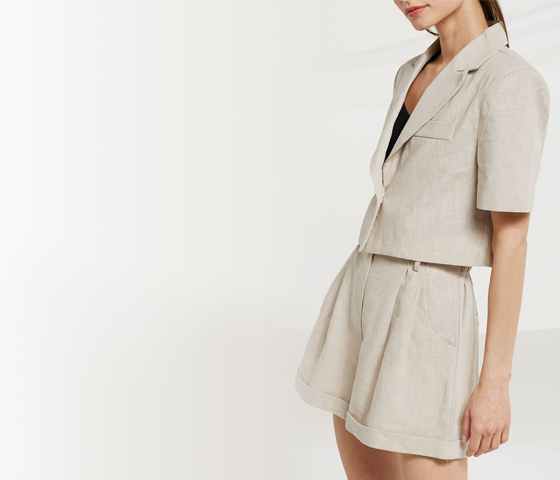
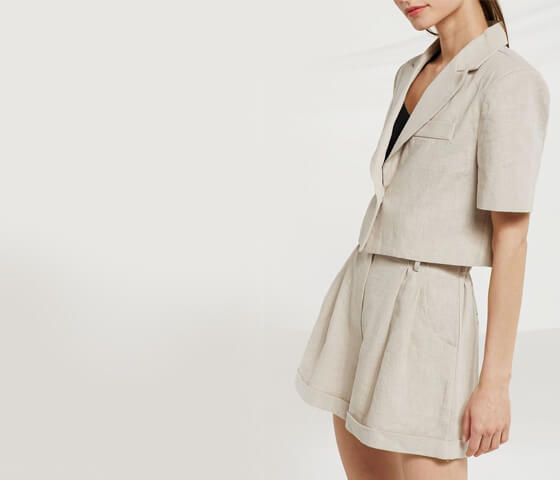
Home page change: seo, accessibility, promo

Changed region(s): [[0.0, 0.4688, 0.1518, 1.0]]

diff --git a/app/blocks/header-search/header-search.html b/app/blocks/header-search/header-search.html
@@ -2,7 +2,8 @@
 	<div class="header-search__panel js-header-search-panel js-header-search-prevent-hide">
 		<form class="header-search__form" action="#" method="post" onsubmit="alert('Форма находится в тестовом режиме. Чтобы закрыть окно, нажмите ОК.'); return false;">
 			<div class="header-search__field">
-				<input type="text" placeholder="Введите поисковый запрос" class="header-search__input js-header-search-input" data-swc-prevent-remove />
+				<label for="search" class="header-search__label">Найти</label>
+				<input id="search" type="text" placeholder="Введите поисковый запрос" class="header-search__input js-header-search-input" data-swc-prevent-remove />
 				<a href="#" class="header-search__close js-header-search-close">
 					<div class="header-search__close-icon">
 						@@include("../../svg/icon-search.svg")

diff --git a/app/blocks/header-share/header-share.html b/app/blocks/header-share/header-share.html
@@ -1,10 +1,10 @@
 <div class="header-share">
 	<div class="header-share__list">
-		<a href="https://www.instagram.com/" target="_blank" class="header-share__item instagram" title="Мы в Instagram">
+		<a href="https://www.instagram.com/" target="_blank" rel="noopener" class="header-share__item instagram" title="Мы в Instagram">
 			@@include("../../svg/icon-soc-instagram.svg")
 			<span>Instagram</span>
 		</a>
-		<a href="https://www.pinterest.com/" target="_blank" class="header-share__item pinterest" title="Мы в Pinterest">
+		<a href="https://www.pinterest.com/" target="_blank" rel="noopener" class="header-share__item pinterest" title="Мы в Pinterest">
 			@@include("../../svg/icon-soc-pinterest.svg")
 			<span>Pinterest</span>
 		</a>

diff --git a/app/blocks/footer-share/footer-share.html b/app/blocks/footer-share/footer-share.html
@@ -1,10 +1,10 @@
 <div class="f-share">
 	<div class="f-share__list">
-		<a href="https://www.facebook.com/" target="_blank" class="f-share__item facebook" title="Share Facebook">
+		<a href="https://www.facebook.com/" target="_blank" rel="noopener" class="f-share__item facebook" title="Share Facebook">
 			@@include("../../svg/icon-soc-facebook.svg")
 			<span>Facebook</span>
 		</a>
-		<a href="https://www.instagram.com/" target="_blank" class="f-share__item instagram" title="Share Instagram">
+		<a href="https://www.instagram.com/" target="_blank" rel="noopener" class="f-share__item instagram" title="Share Instagram">
 			@@include("../../svg/icon-soc-instagram.svg")
 			<span>Twitter</span>
 		</a>

diff --git a/app/blocks/widget-promo/widget-promo.html b/app/blocks/widget-promo/widget-promo.html
@@ -1,5 +1,5 @@
 <div class="widget-promo@@if(context.mods){@@for (var i = 0; i < mods.length; i++){ widget-promo_`+mods[i]+`}}">
-	@@if(context.image){<div class="widget-promo__bg" style="background-image:url(assets/images/temp/@@image);"></div>}
+	@@if(context.image){<div class="widget-promo__bg lazy-load" data-bg="url(assets/images/temp/@@image)"></div>}
 	@@if(context.title || context.text || context.btnText){
 	<div class="widget-promo__content">
 		@@if(context.title){<div class="widget-promo__title">@@title</div>}

diff --git a/app/blocks/head/head.html b/app/blocks/head/head.html
@@ -4,7 +4,7 @@
 	<meta charset="utf-8">
 	<title>@@title</title>
 	<meta http-equiv="X-UA-Compatible" content="IE=edge">
-	<meta name="viewport" content="width=device-width, initial-scale=1, maximum-scale=1">
+	<meta name="viewport" content="width=device-width, initial-scale=1, maximum-scale=2">
 	<meta name="description" content="Description">
 	<meta name="keywords" content="">
 	<meta name="imagetoolbar" content="no">

diff --git a/app/blocks/widget-promo/widget-promo.scss b/app/blocks/widget-promo/widget-promo.scss
@@ -31,6 +31,17 @@
 		background-position: center;
 		background-repeat: no-repeat;
 		background-size: cover;
+
+		&::before {
+			content: "";
+			position: absolute;
+			left: 0;
+			top: 0;
+			width: 100%;
+			height: 100%;
+
+			@include linear-gradient(90deg, rgba(255, 255, 255, 0.8) 0%, rgba(255, 255, 255, 0.463793) 19.46%, rgba(255, 255, 255, 0) 58.3%);
+		}
 	}
 
 	&__content {

diff --git a/app/blocks/site-dev/site-dev.html b/app/blocks/site-dev/site-dev.html
@@ -1,4 +1,4 @@
 <div class="site-dev">
 	<span class="site-dev__text">Разработка сайта iMedia&nbsp;Solutions</span>
-	<a href="https://www.imedia24.ru/" class="site-dev__logo" target="_blank">iMedia Solutions</a>
+	<a href="https://www.imedia24.ru/" class="site-dev__logo" target="_blank" rel="noopener">iMedia Solutions</a>
 </div>

diff --git a/app/blocks/data-soc/data-soc.scss b/app/blocks/data-soc/data-soc.scss
@@ -44,10 +44,6 @@
 		color: inherit;
 		max-height: $lh * $count;
 		overflow: hidden;
-		text-overflow: ellipsis;
-		display: -webkit-box;
-		-webkit-box-orient: vertical;
-		-webkit-line-clamp: $count;
 		word-break: break-word;
 		margin-bottom: 2.2rem;
 

diff --git a/app/blocks/header-search/header-search.scss b/app/blocks/header-search/header-search.scss
@@ -29,6 +29,17 @@
 		position: relative;
 	}
 
+	&__label {
+		position: absolute;
+		width: 0;
+		height: 0;
+		padding: 0;
+		margin: 0;
+		font-size: 0;
+		line-height: 0;
+		opacity: 1;
+	}
+
 	&__input {
 		$input: &;
 		$font-size: 1.2rem;

diff --git a/app/styles/helpers/mixins.scss b/app/styles/helpers/mixins.scss
@@ -189,6 +189,7 @@
 		font-style: $style;
 		font-weight: $weight;
 		src: $src;
+		font-display: swap;
 	}
 }
 
